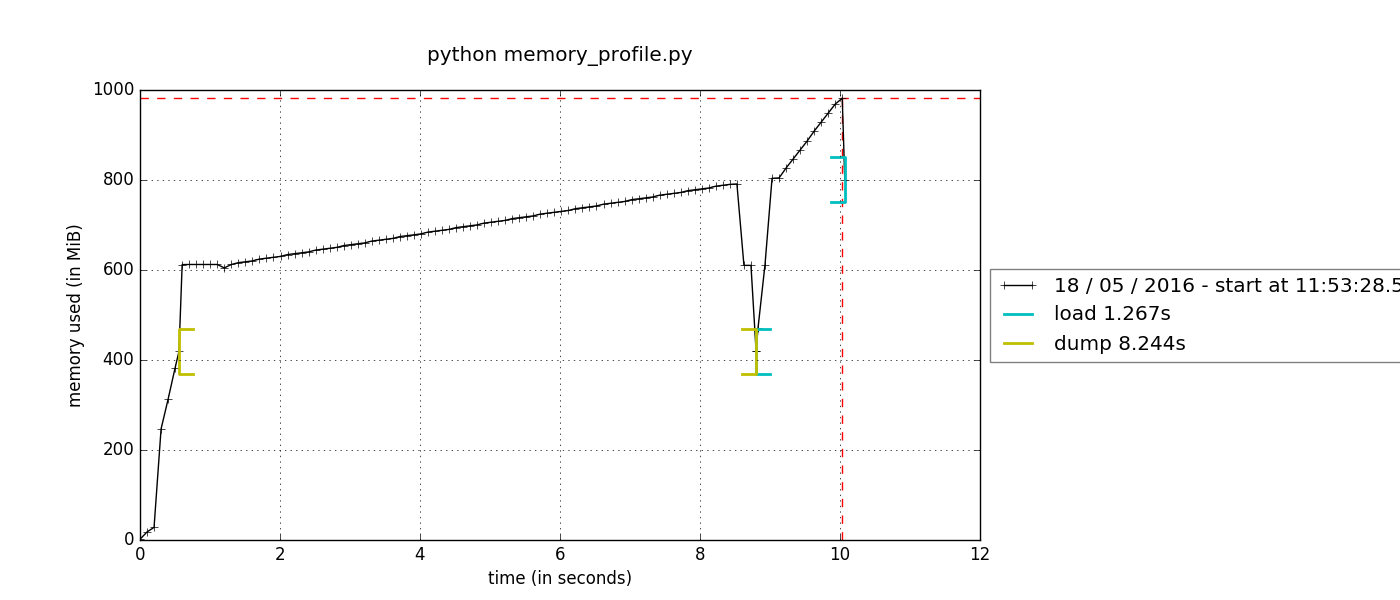
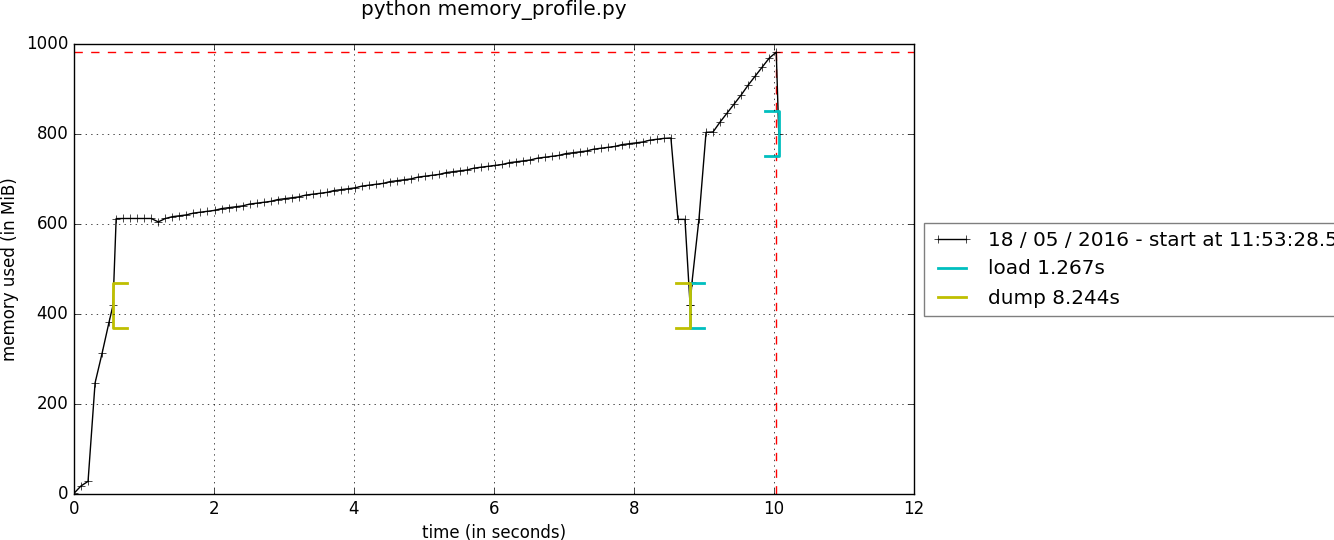
reorg

diff --git a/content/programming/joblib_low_overhead_persistence.rst b/content/programming/joblib_low_overhead_persistence.rst
@@ -1,5 +1,5 @@
-New persistence strategy in joblib
-##################################
+New Python compressed persistence in joblib
+###############################################
 
 :date: 2016-05-20
 :tags: joblib, persistence, big data
@@ -58,30 +58,22 @@ Let's put in evidence those problems with a bit of code:
   We see the increased memory usage during the calls to ``dump``
   and ``load`` functions.
 
-
-Let's now discover the new features and improvements that comes with
-version 0.10.0. After that, we'll compare speed and memory consumption with
-other libraries and discuss the results. Then we'll give some details about the
-new internal implementation.
+.. XXX: announce content of post earlier
+   
+    Let's now discover the new features and improvements that comes with
+    version 0.10.0. After that, we'll compare speed and memory consumption with
+    other libraries and discuss the results. Then we'll give some details about the
+    new internal implementation.
 
 What's new
 ==========
 
-joblib now **persists numpy arrays in a single file** and with **no memory
-copies** during dump and load steps. This **allows contextlib syntaxic
-sugar usage** when playing with cached objects. The other big step forward
-is the internal usage of **all compression formats available in the standard
-library**.
+**Memory usage is now stable**:
 
-Early joblib adopters can also be reassured : this new version is **still
-compatible with pickles generated by older versions** (>= 0.8.4). By the way,
-you are encourage to update (rebuild?) your cache if you want to take advantage
-of this new version.
+  .. image:: {filename}attachments/new_pickle_mem_profile.png
 
-If we try again the examples above, we can already see improvements:
-* All numpy arrays are persisted in a single file:
-
-  
+**All numpy arrays are persisted in a single file**:
+ 
 .. code-block:: python
 
                 >>> import numpy as np
@@ -95,11 +87,81 @@ If we try again the examples above, we can already see improvements:
                 [array([[ 1.,  1., ...,  1.,  1.]],
                  array([[ 0.47006195,  0.5436392 , ...,  0.1218267 ,  0.48592789]])]
 
+**Persistence can be done in a filehandle**
 
-          
-* Memory usage is now stable:
+**More compression formats are available**
 
-  .. image:: {filename}attachments/new_pickle_mem_profile.png
+.. topic:: Backward compatibility
+
+    Early joblib adopters can be reassured : this new version is **still
+    compatible with pickles generated by older versions** (>= 0.8.4). You
+    are encouraged to update (rebuild?) your cache if you want to take
+    advantage of this new version.
+
+
+Benchmarks: speed and memory consumption
+=========================================
+
+Joblib philosophy is to have the **minimum dependencies** (only numpy) and to
+**be agnostic to the input data**. So joblib's goal is to able to deal with any
+kind of data while trying to **be as efficient as possible with numpy arrays**.
+
+To illustrate the benefits and cost of the new persistence implementation, let's
+now compare a real life use cases
+(`LFW dataset from scikit-learn <http://scikit-learn.org/stable/modules/generated/sklearn.datasets.fetch_lfw_people.html>`_)
+with different libraries:
+
+* Joblib, tested for raw and compressed (zlib) files, with 2 different versions,
+  0.9.4 and master (dev),
+* Pickle, tested for raw and compressed (gzip) files,
+* Numpy, tested for raw and compressed (zlib) files.
+
+The compression level and underlying method used are the same : zlib (gzip is
+based on zlib but adds crc checks) with a compression level of 3.
+
+The following results were generated with this
+`gist <https://gist.github.com/aabadie/2ba94d28d68f19f87eb8916a2238a97c>`_:
+
+
+.. image:: {filename}attachments/persistence_lfw_bench.png
+    :class: large
+
+           
+The four first lines use non compressed persistence strategies, the last four
+use persistence with zlib/gzip strategies.
+
+**Speed**: the results between joblib 0.9.4 and 0.10.0 are
+similar whereas **numpy and pickle are clearly slower than joblib** in both
+compressed and non compressed cases.
+
+**Memory consumption**: Without compression, old and
+new joblib versions are the same but with compression, the old joblib version is
+clearly worse than the new one.
+Again **pickle and moreover numpy are clearly worse than joblib in terms of
+memory consumption**. This can be explained by the fact that numpy relies on
+pickle if the object is not a pure numpy array (a list or a dict with arrays for
+example), so in this case it inherits the memory drawbacks from pickle. When
+persisting pure numpy arrays (not tested here), numpy uses its interal save/load
+functions which are quite efficient in terms of speed and memory consumption.
+
+**Disk used**: the results are as expected : non compressed files has
+the same size as the in-memory data, compressed files are smaller.
+
+.. topic:: Caveat Emptor: performance is data-dependent
+
+    Different data compress more or less easily. Results from the
+    benchmarks, in particular speed and disk used, will vary depending on
+    the data. Key considerations are:
+
+    * **Fraction of data in arrays**: joblib is efficient if much of the
+      data is contained in numpy arrays. The worst case scenario is
+      something like a large dictionary of random numbers as keys and
+      values.
+
+    * **Entropy of the data**: an array fully of zeros will compress well
+      and fast. A fully random array will compress slowly, and use a lot
+      of disk. Real data is often somewhere in the middle.
+
 
 Extra improvements in compressed persistence
 =============================================
@@ -201,67 +263,10 @@ unsure, simply use ``open``, joblib will **select the right decompressor**:
     <https://github.com/boto/boto>`_).
 
           
-Benchmarks: speed and memory consumption
-=========================================
-
-
-It's now time to have a look at performances. We now have a friendly API but
-does it have an impact on them ? The answer is **it depends on the data**.
-
-Joblib philosophy is to have the **minimum dependencies** (only numpy) and to
-**be agnostic to the input data**. So joblib's goal is to able to deal with any
-kind of data while trying to **be as efficient as possible with numpy arrays**.
-
-To illustrate the benefits and cost of the new persistence implementation, let's
-now compare a real life use cases
-(`LFW dataset from scikit-learn <http://scikit-learn.org/stable/modules/generated/sklearn.datasets.fetch_lfw_people.html>`_)
-with different libraries:
-
-* Joblib, tested for raw and compressed (zlib) files, with 2 different versions,
-  0.9.4 and master (dev),
-* Pickle, tested for raw and compressed (gzip) files,
-* Numpy, tested for raw and compressed (zlib) files.
-
-The compression level and underlying method used are the same : zlib (gzip is
-based on zlib but adds crc checks) with a compression level of 3.
-
-The following results were generated with this
-`gist <https://gist.github.com/aabadie/2ba94d28d68f19f87eb8916a2238a97c>`_:
-
-
-.. image:: {filename}attachments/persistence_lfw_bench.png
-    :class: large
-
-           
-The four first lines use non compressed persistence strategies, the last four
-use persistence with zlib/gzip strategies.
-
-**Speed**: the results between joblib 0.9.4 and 0.10.0 are
-similar whereas **numpy and pickle are clearly slower than joblib** in both
-compressed and non compressed cases.
-
-**Memory consumption**: Without compression, old and
-new joblib versions are the same but with compression, the old joblib version is
-clearly worse than the new one.
-Again **pickle and moreover numpy are clearly worse than joblib in terms of
-memory consumption**. This can be explained by the fact that numpy relies on
-pickle if the object is not a pure numpy array (a list or a dict with arrays for
-example), so in this case it inherits the memory drawbacks from pickle. When
-persisting pure numpy arrays (not tested here), numpy uses its interal save/load
-functions which are quite efficient in terms of speed and memory consumption.
-
-**Disk used**: the results are as expected : non compressed files has
-the same size as the in-memory data, compressed files are smaller.
-
-
-Enhancement strategy
+Implementation
 ====================
 
-
-It is now time to give some details about the internal implementation of joblib
-persistence functions.
-
-First, as we said above, joblib historically relies on pickle python
+First, joblib historically relies on pickle Python
 implementation through Pickler/Unpickler subclasses. This has been sligthly
 refactored in the new version as follows:
 
@@ -291,7 +296,8 @@ object ``BinaryZlibFile`` to compress pickle using zlib compression. Indeed,
 format computes a crc for each chunk of compressed data, making it slower (we
 noticed a performance drop of 15%).
 
-.. note::
+.. topic:: Speed penalties of on-the-fly writes
+
    There's also a small speed difference with dict/list objects between new/old
    joblib when using compression.
    The old version pickles the data inside a ``io.BytesIO`` buffer and then
@@ -321,10 +327,11 @@ extendable by allowing external project to register new ones. Some work has
 already been started with LZO (using python-lzo) but LZ4 also seems to be an
 interesting ones.
 
-Thanks to `@lesteve <https://github.com/lesteve>`_,
-`@ogrisel <https://github.com/ogrisel>`_ and
-`@GaelVaroquaux <https://github.com/GaelVaroquaux>`_ for the valuable help,
-reviews and support.
+The pull request was implemented by `@aabadie
+<https://github.com/aabadie>`_. He thanks `@lesteve
+<https://github.com/lesteve>`_, `@ogrisel <https://github.com/ogrisel>`_
+and `@GaelVaroquaux <https://github.com/GaelVaroquaux>`_ for the valuable
+help, reviews and support.
 
 
 .. [#] The load created by multiple files on the filesystem is
